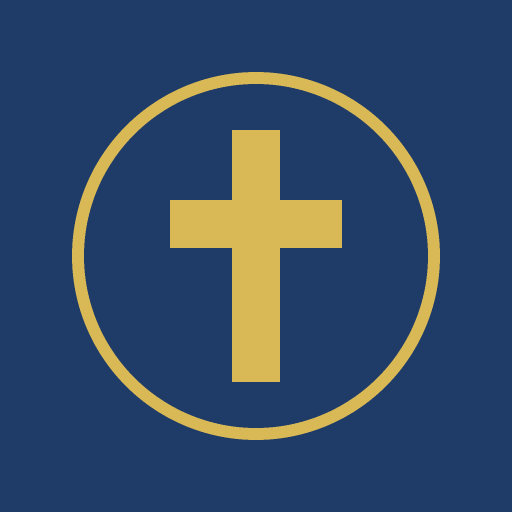
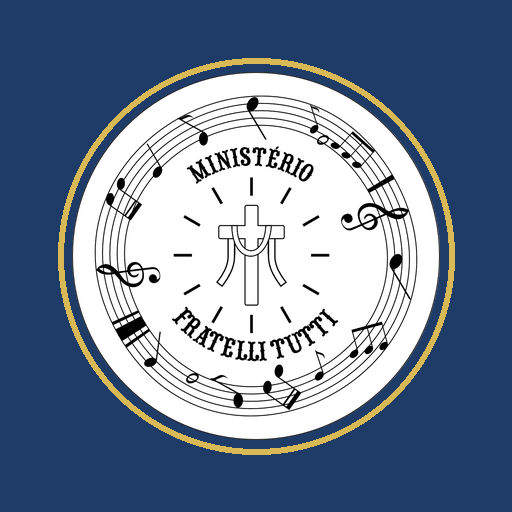
Logotipo do ministério na capa, no login e nos ícones do app
- Capa de abertura em azul com o logotipo (some sozinha ou ao tocar; funciona offline)
- Logotipo recortado com fundo transparente; ícones 192, 512 e 180 refeitos com ele
- Login com o logotipo; manifesto com fundo azul na tela de abertura do app instalado
- Removidos os ícones provisórios (icon.svg e emblema.svg)

Claude-Session: https://claude.ai/code/session_013xpQWkLw8naio4UcghDAbf

diff --git a/fratelli-tutti - app offline/fratelli-tutti/public/index.html b/fratelli-tutti - app offline/fratelli-tutti/public/index.html
@@ -6,11 +6,35 @@
   <title>Fratelli Tutti</title>
   <meta name="theme-color" content="#1f3c68">
   <link rel="manifest" href="/manifest.webmanifest">
-  <link rel="icon" href="/icon.svg" type="image/svg+xml">
+  <link rel="icon" href="/icon-192.png" type="image/png">
   <link rel="apple-touch-icon" href="/apple-touch-icon.png">
   <link rel="stylesheet" href="/style.css">
 </head>
 <body>
+  <!-- Capa de abertura: aparece uma vez por visita; some sozinha ou ao tocar -->
+  <div id="capa" class="capa" role="dialog" aria-label="Fratelli Tutti">
+    <img class="capa-logo" src="/logo.png" width="947" height="948" alt="Logotipo do Ministério Fratelli Tutti">
+    <p class="capa-dica">Toque para entrar</p>
+  </div>
+  <script>
+    (function () {
+      var capa = document.getElementById('capa');
+      if (!capa) return;
+      try { if (sessionStorage.getItem('ft_capa') === '1') { capa.remove(); return; } } catch (e) { /* mostra a capa */ }
+      var fechada = false;
+      function fechar() {
+        if (fechada) return;
+        fechada = true;
+        try { sessionStorage.setItem('ft_capa', '1'); } catch (e) { /* ok */ }
+        capa.classList.add('saindo');
+        setTimeout(function () { capa.remove(); }, 700);
+      }
+      capa.addEventListener('click', fechar);
+      document.addEventListener('keydown', fechar);
+      setTimeout(fechar, 2800);
+    })();
+  </script>
+
   <header class="topo">
     <div class="marca">Fratelli Tutti</div>
     <nav id="menu">
@@ -35,7 +59,7 @@
 
   <dialog id="dlgLogin">
     <form method="dialog" id="formLogin">
-      <img class="emblema" src="/emblema.svg" alt="">
+      <img class="emblema" src="/logo.png" width="92" height="92" alt="Logotipo do Ministério Fratelli Tutti">
       <h2>Entrar</h2>
       <p class="mudo">Digite a chave de acesso da sua equipe.</p>
       <input id="chave" type="password" placeholder="Chave de acesso" autocomplete="off" required>

diff --git a/fratelli-tutti - app offline/fratelli-tutti/public/style.css b/fratelli-tutti - app offline/fratelli-tutti/public/style.css
@@ -204,7 +204,35 @@ dialog.grande img, dialog.grande video { width: 100%; max-height: 60vh; object-f
   box-shadow: 0 4px 14px rgba(0, 0, 0, .3);
 }
 
-.emblema { display: block; width: 46px; height: auto; margin: 0 auto 8px; }
+.emblema { display: block; width: 92px; height: auto; margin: 0 auto 10px; border-radius: 50%; box-shadow: 0 0 0 2px var(--ouro); }
+
+/* Capa de abertura: sempre em azul profundo, com o logotipo num medalhão de fio dourado */
+.capa {
+  position: fixed; inset: 0; z-index: 100;
+  display: flex; flex-direction: column; align-items: center; justify-content: center; gap: 24px;
+  background: radial-gradient(ellipse at 50% 38%, #2b4f86 0%, #1f3c68 45%, #14284a 100%);
+  cursor: pointer;
+  animation: capa-auto .6s ease 3.4s forwards; /* garante que some mesmo se o script falhar */
+}
+.capa.saindo { opacity: 0; visibility: hidden; transition: opacity .6s ease, visibility 0s linear .6s; }
+.capa-logo {
+  width: min(72vw, 52vh, 360px); height: auto; border-radius: 50%;
+  box-shadow: 0 0 0 4px #d9b955, 0 0 0 10px rgba(217, 185, 85, .25), 0 18px 50px rgba(0, 0, 0, .45);
+  animation: capa-entra .9s cubic-bezier(.2, .7, .2, 1) both;
+}
+.capa-dica {
+  margin: 0; color: #f7f0dc; font-family: var(--serifa); font-size: .85rem;
+  letter-spacing: .14em; text-transform: uppercase;
+  animation: capa-dica 1.2s ease .8s both;
+}
+@keyframes capa-entra { from { opacity: 0; transform: scale(.92); } to { opacity: 1; transform: scale(1); } }
+@keyframes capa-dica { from { opacity: 0; } to { opacity: .85; } }
+@keyframes capa-auto { to { opacity: 0; visibility: hidden; } }
+@media (prefers-reduced-motion: reduce) {
+  .capa { animation-duration: .01s; }
+  .capa.saindo { transition: none; }
+  .capa-logo, .capa-dica { animation: none; }
+}
 dialog h2 { font-family: var(--serifa); }
 #dlgLogin h2, #dlgLogin > form > .mudo { text-align: center; }
 

diff --git a/fratelli-tutti - app offline/fratelli-tutti/public/sw.js b/fratelli-tutti - app offline/fratelli-tutti/public/sw.js
@@ -1,8 +1,8 @@
-const VERSAO = 'v4';
+const VERSAO = 'v5';
 const SHELL = 'ft-shell-' + VERSAO;
 const API = 'ft-api-v1';
 const MIDIA = 'ft-media-v1';
-const ARQUIVOS = ['/index.html', '/style.css', '/afinador.js', '/app.js', '/manifest.webmanifest', '/emblema.svg', '/icon.svg', '/icon-192.png', '/icon-512.png'];
+const ARQUIVOS = ['/index.html', '/style.css', '/afinador.js', '/app.js', '/manifest.webmanifest', '/logo.png', '/icon-192.png', '/icon-512.png'];
 
 self.addEventListener('install', (e) => {
   e.waitUntil(caches.open(SHELL).then((c) => c.addAll(ARQUIVOS)).then(() => self.skipWaiting()));

diff --git a/fratelli-tutti - app offline/fratelli-tutti/README.md b/fratelli-tutti - app offline/fratelli-tutti/README.md
@@ -18,6 +18,10 @@ Projeto independente, sem qualquer ligação com outros sites.
 | Equipe musical | `CHAVE_MUSICAL` | criar pastas; adicionar e editar cifras |
 | Equipe de produção | `CHAVE_PRODUCAO` | ver avisos e repertórios (sem editar); enviar fotos e vídeos |
 
+## Capa e logotipo
+
+O logotipo do ministério (`public/logo.png`, recortado em círculo com fundo transparente) aparece numa capa de abertura em azul profundo, uma vez por visita: some sozinha em cerca de 3 segundos ou ao tocar. Também está no login e nos ícones do aplicativo (`icon-192.png`, `icon-512.png`, `apple-touch-icon.png`), que no celular viram a tela de abertura do app instalado. A capa funciona offline.
+
 ## Troca de tom nas cifras
 
 Ao abrir uma cifra, há uma barra com − / + (meio tom), um seletor com os 12 tons e o botão "Original". Os acordes são trocados mantendo o alinhamento sobre a letra, inclusive acordes com baixo (D/F#), sétimas, sus e acordes entre colchetes no meio da letra ([Am]). O site escolhe bemóis ou sustenidos conforme o tom de destino. Funciona offline. A equipe musical pode usar "Salvar neste tom" para gravar a cifra transposta para todos.
